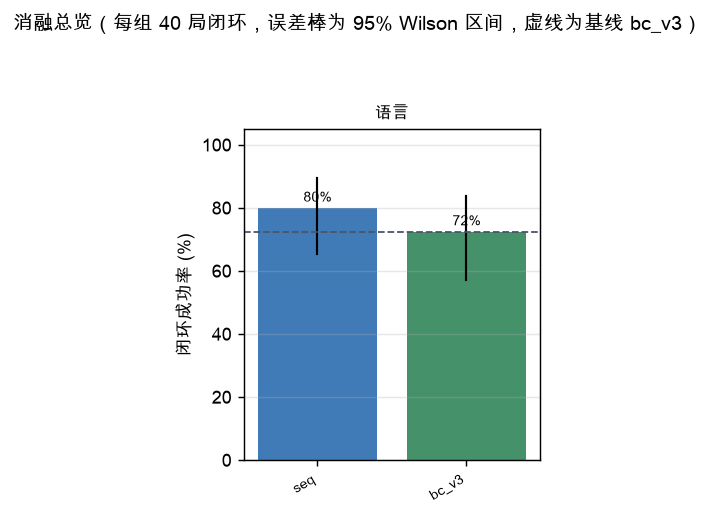
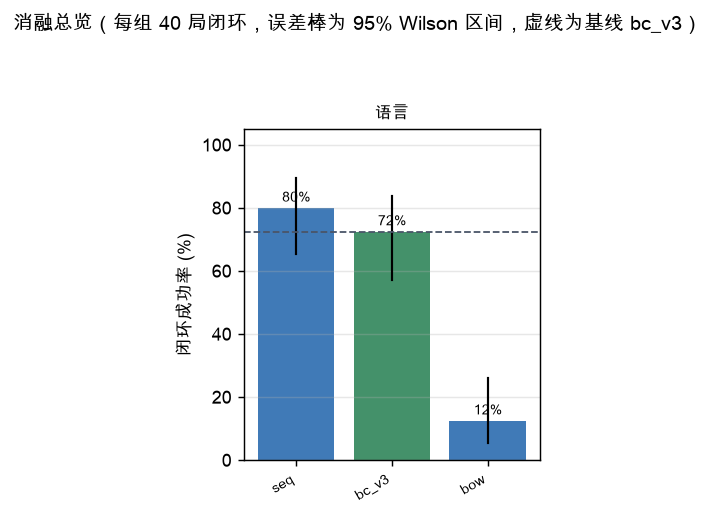
Summary: hide unstarted suites, fix stale description

diff --git a/policy/ablate.py b/policy/ablate.py
@@ -18,7 +18,7 @@ SUITES = {
     # name              overrides                      一句话：这一组在问什么
     "lang": [
         ("bc_v3", None, "CLS 读出 + 放大位置编码（基线）"),
-        ("lang_seq", ["model.lang_mode=seq"], "均值池化的 Transformer（实测会退化成词袋）"),
+        ("lang_seq", ["model.lang_mode=seq"], "字符 + 位置编码 + Transformer + 均值池化"),
         ("lang_bow", ["model.lang_mode=bow"], "字符词袋：颜色顺序被抹平"),
         ("lang_none", ["model.lang_mode=none"], "完全拿不到指令：只能瞎猜抓哪个"),
         ("lang_cls_nofilm", ["model.lang_mode=cls", "model.film=false"],

diff --git a/scripts/summary.py b/scripts/summary.py
@@ -129,7 +129,7 @@ def main():
 
     for suite in ("vision", "lang", "cams", "chunk", "heads", "backbone", "aux", "data"):
         rows, done = suite_rows(suite)
-        if not rows:
+        if len(rows) < 2:            # 只有基线一行的套件还没开跑，不占版面
             continue
         L += [f"## {SUITE_TITLE.get(suite, suite)}" + ("" if done else "（进行中）"), "",
               md_table(rows), ""]

diff --git a/docs/SUMMARY.md b/docs/SUMMARY.md
@@ -1,71 +1,16 @@
-# StarVLA 实验总结（2026-08-24 01:50）
+# StarVLA 实验总结（2026-08-24 02:50）
 
 ## 基线
 
 `bc_v3`：1.33 M 参数，800 条演示，16000 步训练（约 40 分钟），50 局闭环 **72%**（抓错方块 0 / 没抓起来 5 / 没进盘子 6）。
 
-## 视觉分支：空间 softmax 怎么接、特征图多大（进行中）
-
-| 实验 | 成功率 | 95% 区间 | 抓错方块 | 没抓起来 | 没进盘子 | 在问什么 |
-|---|---|---|---|---|---|---|
-| `bc_v3` ★ | **72%** | 57%–84% | 0 | 5 | 6 | 原始 logits + 16×16 特征图（基线） |
-
-（n=40 局。95% Wilson 区间——差距小于区间宽度的结论不要当真。）
-
 ## 语言：到底有没有起作用（进行中）
 
 | 实验 | 成功率 | 95% 区间 | 抓错方块 | 没抓起来 | 没进盘子 | 在问什么 |
 |---|---|---|---|---|---|---|
-| `lang_seq` ★ | **80%** | 65%–90% | 0 | 3 | 5 | 均值池化的 Transformer（实测会退化成词袋） |
+| `lang_seq` ★ | **80%** | 65%–90% | 0 | 3 | 5 | 字符 + 位置编码 + Transformer + 均值池化 |
 | `bc_v3` | **72%** | 57%–84% | 0 | 5 | 6 | CLS 读出 + 放大位置编码（基线） |
-
-（n=40 局。95% Wilson 区间——差距小于区间宽度的结论不要当真。）
-
-## 相机：腕部相机值多少（进行中）
-
-| 实验 | 成功率 | 95% 区间 | 抓错方块 | 没抓起来 | 没进盘子 | 在问什么 |
-|---|---|---|---|---|---|---|
-| `bc_v3` ★ | **72%** | 57%–84% | 0 | 5 | 6 | 两路相机（基线） |
-
-（n=40 局。95% Wilson 区间——差距小于区间宽度的结论不要当真。）
-
-## 动作分块：预测未来几步（进行中）
-
-| 实验 | 成功率 | 95% 区间 | 抓错方块 | 没抓起来 | 没进盘子 | 在问什么 |
-|---|---|---|---|---|---|---|
-| `bc_v3` ★ | **72%** | 57%–84% | 0 | 5 | 6 | 基线 |
-
-（n=40 局。95% Wilson 区间——差距小于区间宽度的结论不要当真。）
-
-## 动作表示：回归 / 离散 token / 扩散（进行中）
-
-| 实验 | 成功率 | 95% 区间 | 抓错方块 | 没抓起来 | 没进盘子 | 在问什么 |
-|---|---|---|---|---|---|---|
-| `bc_v3` ★ | **72%** | 57%–84% | 0 | 5 | 6 | 连续回归 + L1（ACT 路线，基线） |
-
-（n=40 局。95% Wilson 区间——差距小于区间宽度的结论不要当真。）
-
-## 视觉骨干：从零 CNN vs 预训练 ResNet18（进行中）
-
-| 实验 | 成功率 | 95% 区间 | 抓错方块 | 没抓起来 | 没进盘子 | 在问什么 |
-|---|---|---|---|---|---|---|
-| `bc_v3` ★ | **72%** | 57%–84% | 0 | 5 | 6 | 从零 4 层 CNN（基线） |
-
-（n=40 局。95% Wilson 区间——差距小于区间宽度的结论不要当真。）
-
-## 辅助监督：能不能替代更多数据（进行中）
-
-| 实验 | 成功率 | 95% 区间 | 抓错方块 | 没抓起来 | 没进盘子 | 在问什么 |
-|---|---|---|---|---|---|---|
-| `bc_v3` ★ | **72%** | 57%–84% | 0 | 5 | 6 | 只用动作监督（基线） |
-
-（n=40 局。95% Wilson 区间——差距小于区间宽度的结论不要当真。）
-
-## 数据量曲线（进行中）
-
-| 实验 | 成功率 | 95% 区间 | 抓错方块 | 没抓起来 | 没进盘子 | 在问什么 |
-|---|---|---|---|---|---|---|
-| `bc_v3` ★ | **72%** | 57%–84% | 0 | 5 | 6 | 800 条（全部，基线） |
+| `lang_bow` | **12%** | 5%–26% | 12 | 16 | 7 | 字符词袋：颜色顺序被抹平 |
 
 （n=40 局。95% Wilson 区间——差距小于区间宽度的结论不要当真。）
 
